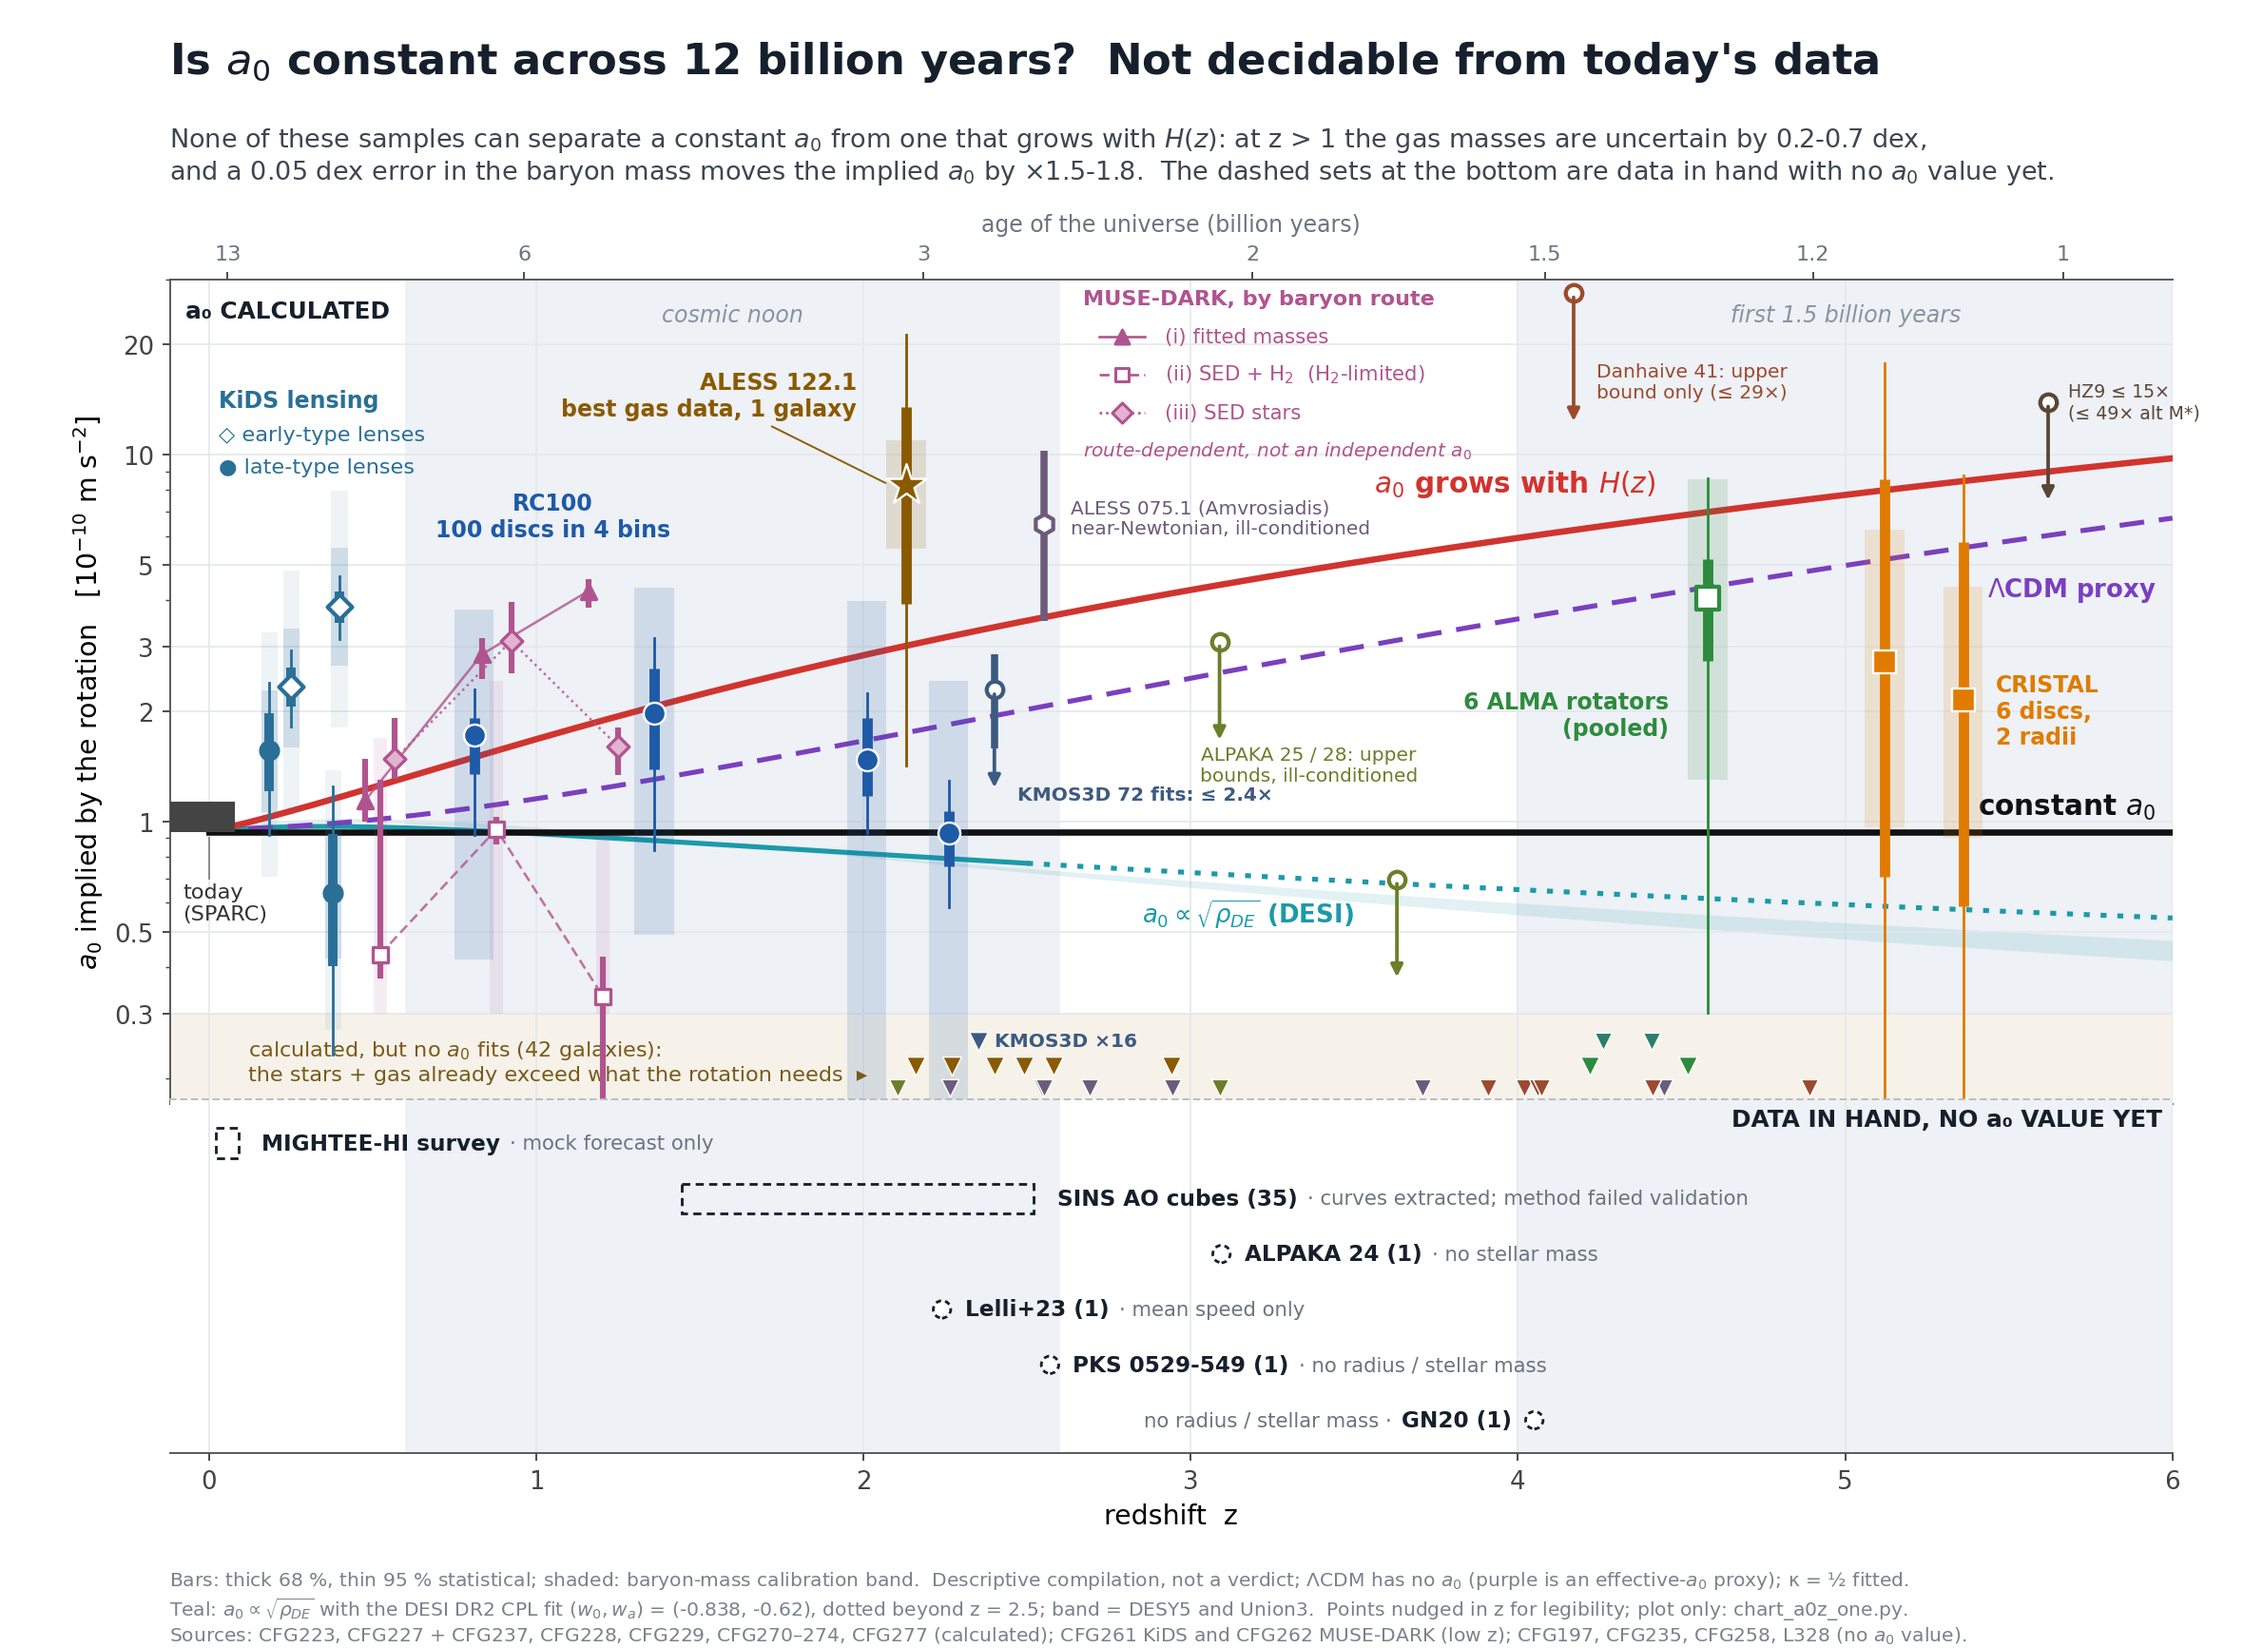
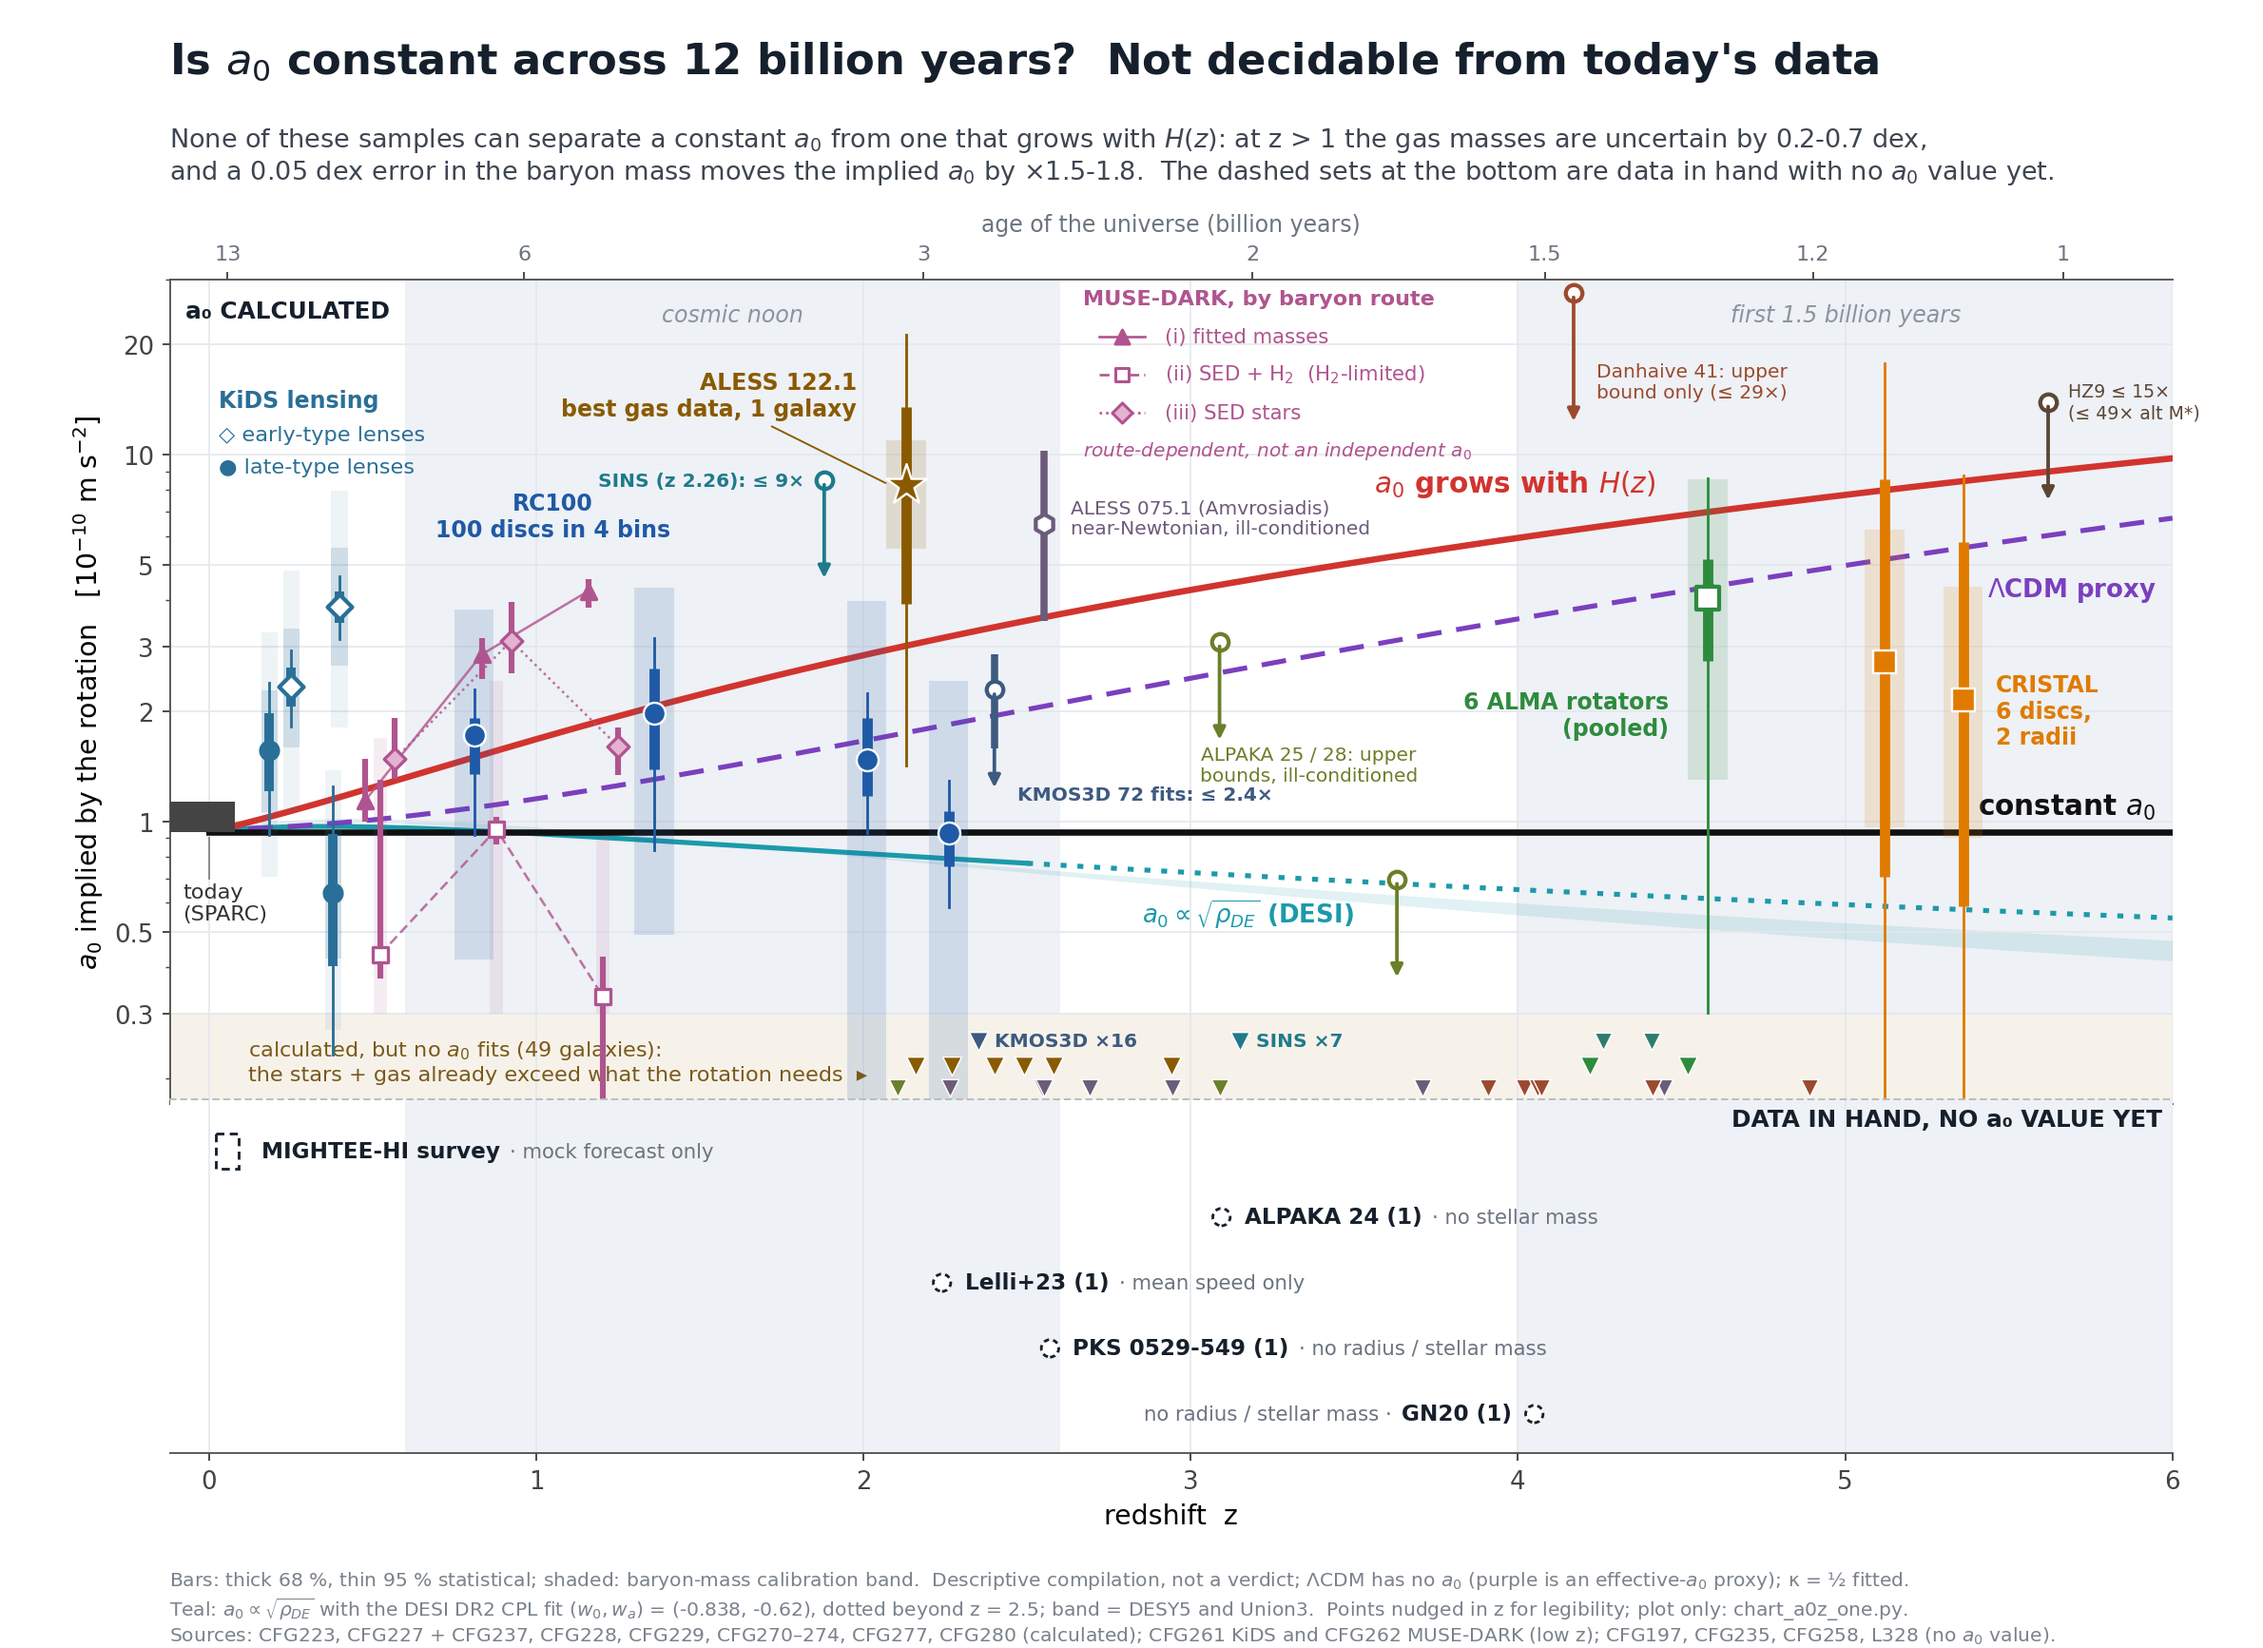
CHART one-chart: SINS published values from CFG280 (396299a9f) -- overlap-free pooled upper bound PT2_new <= 9.1 (nudged to z 1.88, true z in label), 7 overlap-free stars-only floor galaxies as one grouped marker (BX610 and the RC100 matches excluded); strip row removed; floor count 49; 17/17 checks

diff --git a/campaign_fresh_gravity/CHART_a0z_rar_z0_5_2026-10-01/chart_a0z_one.py b/campaign_fresh_gravity/CHART_a0z_rar_z0_5_2026-10-01/chart_a0z_one.py
@@ -48,11 +48,11 @@ A272 = [r for r in csv.DictReader(open(os.path.join(CFG, "CFG272_alpaka_five_dis
 A270 = list(csv.DictReader(open(os.path.join(CFG, "CFG270_kmos3d_cube_fits", "cfg270_points_stageB.csv"))))   # CFG270 b2e86a913
 A271 = {r["object"]: r for r in csv.DictReader(open(os.path.join(CFG, "CFG271_hz9_three_rings", "cfg271_points_stageB.csv")))}   # CFG271 a18b17d72
 A277 = {r["object"]: r for r in csv.DictReader(open(os.path.join(CFG, "CFG277_roman_oliveira_four_discs", "cfg277_points_stageB.csv")))}   # CFG277 0f6c4cd58
+A280 = list(csv.DictReader(open(os.path.join(CFG, "CFG280_sins_ao_published", "cfg280_points_stageB.csv"))))   # CFG280 396299a9f
 A273 = list(csv.DictReader(open(os.path.join(CFG, "CFG273_danhaive_gold41", "cfg273_points_stageB_relabelled.csv"))))   # CFG273 208944196 (relabelled: two ceiling rows)
 A274 = [r for r in csv.DictReader(open(os.path.join(CFG, "CFG274_amvrosiadis_eight_discs", "cfg274_points_stageB.csv"))) if "pooled" not in r["object"]]   # CFG274 255f07244
 TODO = [  # (label, zmin, zmax, short note)       sources: CFG227 'Listed, no point' + CFG237 + CFG258 + L328
     ("MIGHTEE-HI survey", 0.02, 0.09, "mock forecast only"),
-    (f"SINS AO cubes ({len(sins)})", min(sins), max(sins), "curves extracted; method failed validation"),
     ("ALPAKA 24 (1)", alp["24"], alp["24"], "no stellar mass"),
     ("Lelli+23 (1)", 2.24, 2.24, "mean speed only"),
     ("PKS 0529-549 (1)", 2.57, 2.57, "no radius / stellar mass"),
@@ -67,6 +67,7 @@ check("Roman-Oliveira with kinematics: 4", len(ro) == 4, f"({len(ro)}: {[i for i
 check("CFG270 KMOS3D: pooled PT1 (72 fits) <= 2.44 at z 2.228; 16 T1 fits at the floor (b2e86a913)", any(r["object"] == "KMOS3D pooled PT1" and abs(float(r["s_star"]) - 2.4413) < 1e-3 for r in A270) and sum(r["tier"] == "T1" and r["no_root"] == "1" for r in A270) == 16, f"({sum(r['tier'] == 'T1' and r['no_root'] == '1' for r in A270)} T1 floor)")
 check("CFG271 HZ9: outer-ring stars-only upper bounds 14.85 (corpus M*) and 48.9 (Parlanti M*) (a18b17d72)", abs(float(A271["HZ9 [M103]"]["s_star"]) - 14.847) < 1e-2 and abs(float(A271["HZ9 [M986]"]["s_star"]) - 48.906) < 1e-2)
 check("CFG277 Roman-Oliveira: J081740 [gas] and BRI1335-0417 [gas] no root; SGP pair vacuous (51, 28) (0f6c4cd58)", A277["J081740 [gas]"]["no_root"] == "1" and A277["BRI1335-0417 [gas]"]["no_root"] == "1" and round(float(A277["SGP38326-1 [gas]"]["s_star"])) == 51)
+check("CFG280 SINS: PT2_new <= 9.09 (overlap-free); 7 stars-only floor galaxies without an RC100/KMOS3D match (396299a9f)", any(r["object"] == "SINS pooled PT2_new" and abs(float(r["s_star"]) - 9.0878) < 1e-3 for r in A280) and len([r for r in A280 if r["no_root"] == "1" and "[" not in r["object"] and r["rc100_match"] == "0" and r["kmos3d_match"] == "0"]) == 7)
 check("CFG273 Danhaive: 7 no root (relabelled file), pooled PALL <= 29.4 at z 4.17 (208944196)", sum(r["no_root"] == "1" for r in A273) == 7 and any("PALL" in r["object"] and abs(float(r["s_star"]) - 29.45) < 0.01 for r in A273), f"({sum(r['no_root'] == '1' for r in A273)} no root)")
 check("CFG272 ALPAKA: 13 and 23 no root; 25 <= 3.30 and 28 <= 0.74 upper bounds; 24 no M* (d993f02dc)", sorted(r["object"].split()[1] for r in A272 if r["no_root"] == "1") == ["13", "23"] and sorted(round(float(r["s_star"]), 2) for r in A272 if r["no_root"] == "0") == [0.74, 3.3], f"({len(A272)} rows)")
 check("CFG274 Amvrosiadis: 7 of 8 no root, ALESS 075.1 s* 6.89 (255f07244)", sum(r["no_root"] == "1" for r in A274) == 7 and any(r["no_root"] == "0" and abs(float(r["s_star"]) - 6.887) < 0.01 for r in A274), f"({sum(r['no_root'] == '1' for r in A274)} no root)")
@@ -183,7 +184,16 @@ ROC = "#2e7d6b"
 ro_floor = [A277[k] for k in ("J081740 [gas]", "BRI1335-0417 [gas]")]   # primary CO-gas rows; SGP pair vacuous bounds not drawn
 for r in ro_floor:
     ax.scatter([f(r, "z")], [0.252], marker="v", s=60, color=ROC, zorder=6, edgecolor="white", lw=0.6)
-N_NR = len(ro_floor) + len(k3_floor) + 8 + sum(r["no_root"] == "1" for r in A274) + sum(r["no_root"] == "1" for r in A272) + sum(r["no_root"] == "1" and "pooled" not in r["object"] for r in A273)
+SNC = "#1f7a8c"
+sins_floor = [r for r in A280 if r["no_root"] == "1" and "[" not in r["object"] and r["rc100_match"] == "0" and r["kmos3d_match"] == "0"]   # BX610 is CFG229's
+ax.scatter([3.15], [0.252], marker="v", s=70, color=SNC, zorder=6, edgecolor="white", lw=0.6)
+ax.text(3.20, 0.252, f"SINS ×{len(sins_floor)}", color=SNC, fontsize=8.5, va="center", fontweight="bold")
+ptn = next(r for r in A280 if r["object"] == "SINS pooled PT2_new")   # overlap-free stars-only UPPER bound; nudged from z 2.257 to 1.88
+zs, ss = 1.88, f(ptn, "s_star") * U
+ax.scatter([zs], [ss], marker="o", s=55, facecolor="white", edgecolor=SNC, linewidth=1.8, zorder=6)
+ax.annotate("", xy=(zs, ss / 1.9), xytext=(zs, ss), arrowprops=dict(arrowstyle="-|>", color=SNC, lw=1.6), zorder=6)
+ax.text(zs - 0.06, ss, "SINS (z 2.26): ≤ 9×", color=SNC, fontsize=8.5, ha="right", va="center", fontweight="bold")
+N_NR = len(sins_floor) + len(ro_floor) + len(k3_floor) + 8 + sum(r["no_root"] == "1" for r in A274) + sum(r["no_root"] == "1" for r in A272) + sum(r["no_root"] == "1" and "pooled" not in r["object"] for r in A273)
 ax.text(0.12, 0.222, f"calculated, but no $a_0$ fits ({N_NR} galaxies):\nthe stars + gas already exceed what the rotation needs  ▸",
         fontsize=9.5, color="#7a5a1a", va="center")
 # MUSE-DARK (CFG262, fb24a5922): implied a0 in z-thirds BY BARYON ROUTE, reading bD (projected + asymmetric drift, CFG236's
@@ -264,7 +274,7 @@ fig.text(0.075, 0.905, "None of these samples can separate a constant $a_0$ from
          "and a 0.05 dex error in the baryon mass moves the implied $a_0$ by ×1.5-1.8.  The dashed sets at the bottom are data in hand with no $a_0$ value yet.",
          fontsize=11.5, color="#3d4651", va="center")
 fig.text(0.075, 0.004, "Bars: thick 68 %, thin 95 % statistical; shaded: baryon-mass calibration band.  Descriptive compilation, not a verdict; "
-         "ΛCDM has no $a_0$ (purple is an effective-$a_0$ proxy); κ = ½ fitted.\nTeal: $a_0 \\propto \\sqrt{\\rho_{DE}}$ with the DESI DR2 CPL fit ($w_0, w_a$) = (-0.838, -0.62), dotted beyond z = 2.5; band = DESY5 and Union3.  Points nudged in z for legibility; plot only: chart_a0z_one.py.\nSources: CFG223, CFG227 + CFG237, CFG228, CFG229, CFG270–274, CFG277 (calculated); CFG261 KiDS and CFG262 MUSE-DARK (low z); CFG197, CFG235, CFG258, L328 (no $a_0$ value).",
+         "ΛCDM has no $a_0$ (purple is an effective-$a_0$ proxy); κ = ½ fitted.\nTeal: $a_0 \\propto \\sqrt{\\rho_{DE}}$ with the DESI DR2 CPL fit ($w_0, w_a$) = (-0.838, -0.62), dotted beyond z = 2.5; band = DESY5 and Union3.  Points nudged in z for legibility; plot only: chart_a0z_one.py.\nSources: CFG223, CFG227 + CFG237, CFG228, CFG229, CFG270–274, CFG277, CFG280 (calculated); CFG261 KiDS and CFG262 MUSE-DARK (low z); CFG197, CFG235, CFG258, L328 (no $a_0$ value).",
          fontsize=8.6, color="#7a828c")
 fig.savefig(os.path.join(HERE, "chart_a0z_one_2026-10-01.png"), dpi=170)
 P(f"{sum(CHECKS)}/{len(CHECKS)} checks pass; wrote chart_a0z_one_2026-10-01.png")

diff --git a/campaign_fresh_gravity/CHART_a0z_rar_z0_5_2026-10-01/README.md b/campaign_fresh_gravity/CHART_a0z_rar_z0_5_2026-10-01/README.md
@@ -44,3 +44,5 @@ Requested by the owner as a single figure. Top: the calculated implied-a₀ poin
 **HZ9 (CFG271, a18b17d72).** Stars only at the outer ring (2.68 kpc). There is no gas or stellar size on disk, so the result is an UPPER bound, reported in two stellar-mass branches that are never pooled and neither preferred: s* ≤ 14.8 (corpus log M* 10.3) and ≤ 48.9 (Parlanti's 9.86). Both are vacuous: above FLAT 1, PROXY 6.3 and H(z) 9.4 at z 5.54. The corpus branch is drawn at z 5.62 (nudged) with a downward arrow, and the label names the other branch, which is off the top of the axis. All three rings lie inside one beam. The "a₀ grows with H(z)" label moved to z ≈ 4.4 to clear the arrow. HZ9 is removed from the strip. 15/15 checks pass.
 
 **Roman-Oliveira+23 (CFG277, 0f6c4cd58).** Gas only: no stellar masses on disk, and stars can only lower a bound, never lift a floor. Primary CO-gas rows: BRI1335-0417 (gas alone exceeds the dynamics ×2) and J081740 have NO ROOT, drawn as teal floor triangles. J081740 also has no root with [CII] gas, but with FIR gas it gives s* ≤ 4.2: a gas-tracer question, reported here and not drawn. The SGP38326 pair give vacuous, ill-conditioned upper bounds (≤ 51 and ≤ 28) and are not drawn. Six of the seven rows are near-Newtonian, so the content is gas against dynamics, not a₀. The corpus log M* 10.5 for J081740 is a separate branch, never pooled. Roman-Oliveira is removed from the strip. The floor count is now 42. 16/16 checks pass.
+
+**SINS/zC-SINF AO, published values (CFG280, 396299a9f).** Route (a) only: the authors' published values, not our failed-validation cube extraction. One peak-to-peak V_c per galaxy at R_e by convention; the baryons are stars only, a lower limit. Drawn: the overlap-free pooled UPPER bound PT2_new ≤ 9.09 (9 rows with no RC100 or KMOS3D match; true z 2.257). It is NUDGED to z 1.88 to clear the ALESS 122.1 star, a larger nudge than elsewhere, and the label gives the true z. Floor: 7 stars-only no-root galaxies with no RC100 or KMOS3D match (BX599, BX513, Deep3a-6004, SA12-6339, ZC404221, ZC407376N, ZC409985), drawn as one grouped marker "SINS ×7". ZC400528 and ZC403741 (RC100 matches) and BX610 (already CFG229's class-M floor) are excluded to avoid double counting. CFG196's frozen D0 reading (NON-DIAGNOSTIC) stands, so this is coverage only. SINS is removed from the strip. The floor count is now 49. 17/17 checks pass.
